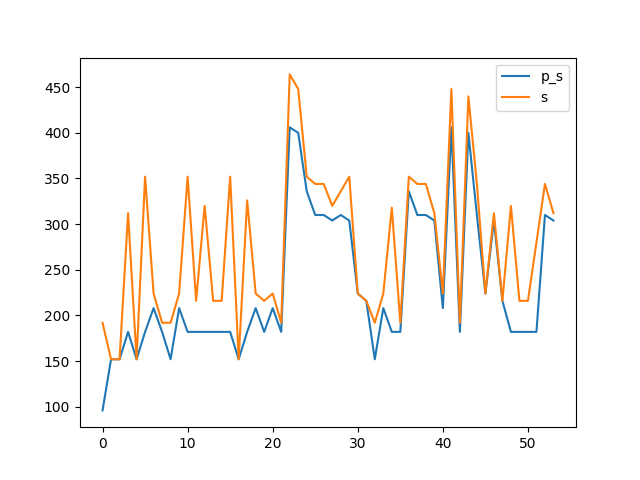
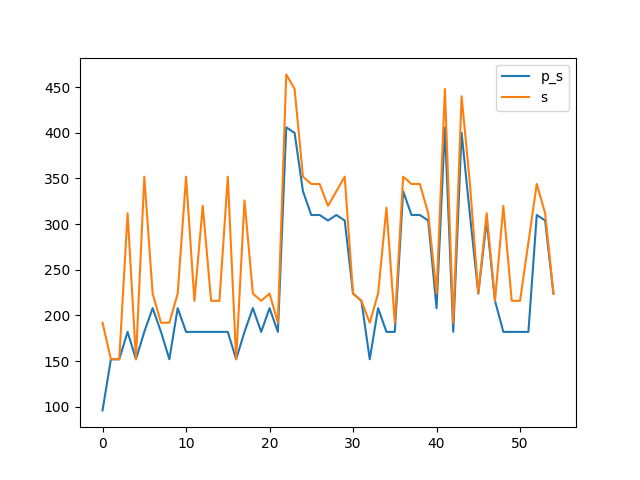
0x0036

diff --git a/benchmark.md b/benchmark.md
@@ -106,16 +106,18 @@ Synthesising 0x0034 pexact:310 r=5 exact:344 r=4
 
 Synthesising 0x0035 pexact:304 r=5 exact:312 r=4
 
+Synthesising 0x0036 pexact:224 r=3 exact:224 r=3
+
 ```mermaid
 xychart-beta
     title "Comparison powertwoexact twoexact"
-    x-axis [0, 1, 2, 3, 4, 5, 6, 7, 8, 9, 10, 11, 12, 13, 14, 15, 16, 17, 18, 19, 20, 21, 22, 23, 24, 25, 26, 27, 28, 29, 30, 31, 32, 33, 34, 35, 36, 37, 38, 39, 40, 41, 42, 43, 44, 45, 46, 47, 48, 49, 50, 51, 52, 53]
+    x-axis [0, 1, 2, 3, 4, 5, 6, 7, 8, 9, 10, 11, 12, 13, 14, 15, 16, 17, 18, 19, 20, 21, 22, 23, 24, 25, 26, 27, 28, 29, 30, 31, 32, 33, 34, 35, 36, 37, 38, 39, 40, 41, 42, 43, 44, 45, 46, 47, 48, 49, 50, 51, 52, 53, 54]
     y-axis "Switching Activity" 0-->464
-    line [96, 152, 152, 182, 152, 182, 208, 182, 152, 208, 182, 182, 182, 182, 182, 182, 152, 182, 208, 182, 208, 182, 406, 400, 336, 310, 310, 304, 310, 304, 224, 216, 152, 208, 182, 182, 336, 310, 310, 304, 208, 406, 182, 400, 310, 224, 304, 216, 182, 182, 182, 182, 310, 304]
-    line [192, 152, 152, 312, 152, 352, 224, 192, 192, 224, 352, 216, 320, 216, 216, 352, 152, 326, 224, 216, 224, 192, 464, 448, 352, 344, 344, 320, 336, 352, 224, 216, 192, 224, 318, 192, 352, 344, 344, 312, 224, 448, 192, 440, 344, 224, 312, 216, 320, 216, 216, 280, 344, 312]
-    line [232.74074074074073, 232.74074074074073, 232.74074074074073, 232.74074074074073, 232.74074074074073, 232.74074074074073, 232.74074074074073, 232.74074074074073, 232.74074074074073, 232.74074074074073, 232.74074074074073, 232.74074074074073, 232.74074074074073, 232.74074074074073, 232.74074074074073, 232.74074074074073, 232.74074074074073, 232.74074074074073, 232.74074074074073, 232.74074074074073, 232.74074074074073, 232.74074074074073, 232.74074074074073, 232.74074074074073, 232.74074074074073, 232.74074074074073, 232.74074074074073, 232.74074074074073, 232.74074074074073, 232.74074074074073, 232.74074074074073, 232.74074074074073, 232.74074074074073, 232.74074074074073, 232.74074074074073, 232.74074074074073, 232.74074074074073, 232.74074074074073, 232.74074074074073, 232.74074074074073, 232.74074074074073, 232.74074074074073, 232.74074074074073, 232.74074074074073, 232.74074074074073, 232.74074074074073, 232.74074074074073, 232.74074074074073, 232.74074074074073, 232.74074074074073, 232.74074074074073, 232.74074074074073, 232.74074074074073, 232.74074074074073]
-    line [276.22222222222223, 276.22222222222223, 276.22222222222223, 276.22222222222223, 276.22222222222223, 276.22222222222223, 276.22222222222223, 276.22222222222223, 276.22222222222223, 276.22222222222223, 276.22222222222223, 276.22222222222223, 276.22222222222223, 276.22222222222223, 276.22222222222223, 276.22222222222223, 276.22222222222223, 276.22222222222223, 276.22222222222223, 276.22222222222223, 276.22222222222223, 276.22222222222223, 276.22222222222223, 276.22222222222223, 276.22222222222223, 276.22222222222223, 276.22222222222223, 276.22222222222223, 276.22222222222223, 276.22222222222223, 276.22222222222223, 276.22222222222223, 276.22222222222223, 276.22222222222223, 276.22222222222223, 276.22222222222223, 276.22222222222223, 276.22222222222223, 276.22222222222223, 276.22222222222223, 276.22222222222223, 276.22222222222223, 276.22222222222223, 276.22222222222223, 276.22222222222223, 276.22222222222223, 276.22222222222223, 276.22222222222223, 276.22222222222223, 276.22222222222223, 276.22222222222223, 276.22222222222223, 276.22222222222223, 276.22222222222223]
-    bar [80, 60, 60, 80, 60, 80, 80, 80, 60, 80, 80, 80, 80, 80, 80, 80, 60, 80, 80, 80, 80, 80, 120, 120, 100, 100, 100, 100, 100, 100, 60, 60, 60, 80, 80, 80, 100, 100, 100, 100, 80, 120, 80, 120, 100, 60, 100, 60, 80, 80, 80, 80, 100, 100]
-    bar [80, 60, 60, 80, 60, 80, 60, 60, 60, 60, 80, 60, 80, 60, 60, 80, 60, 80, 60, 60, 60, 60, 100, 100, 80, 80, 80, 80, 80, 80, 60, 60, 60, 60, 80, 60, 80, 80, 80, 80, 60, 100, 60, 100, 80, 60, 80, 60, 80, 60, 60, 80, 80, 80]
+    line [96, 152, 152, 182, 152, 182, 208, 182, 152, 208, 182, 182, 182, 182, 182, 182, 152, 182, 208, 182, 208, 182, 406, 400, 336, 310, 310, 304, 310, 304, 224, 216, 152, 208, 182, 182, 336, 310, 310, 304, 208, 406, 182, 400, 310, 224, 304, 216, 182, 182, 182, 182, 310, 304, 224]
+    line [192, 152, 152, 312, 152, 352, 224, 192, 192, 224, 352, 216, 320, 216, 216, 352, 152, 326, 224, 216, 224, 192, 464, 448, 352, 344, 344, 320, 336, 352, 224, 216, 192, 224, 318, 192, 352, 344, 344, 312, 224, 448, 192, 440, 344, 224, 312, 216, 320, 216, 216, 280, 344, 312, 224]
+    line [232.5818181818182, 232.5818181818182, 232.5818181818182, 232.5818181818182, 232.5818181818182, 232.5818181818182, 232.5818181818182, 232.5818181818182, 232.5818181818182, 232.5818181818182, 232.5818181818182, 232.5818181818182, 232.5818181818182, 232.5818181818182, 232.5818181818182, 232.5818181818182, 232.5818181818182, 232.5818181818182, 232.5818181818182, 232.5818181818182, 232.5818181818182, 232.5818181818182, 232.5818181818182, 232.5818181818182, 232.5818181818182, 232.5818181818182, 232.5818181818182, 232.5818181818182, 232.5818181818182, 232.5818181818182, 232.5818181818182, 232.5818181818182, 232.5818181818182, 232.5818181818182, 232.5818181818182, 232.5818181818182, 232.5818181818182, 232.5818181818182, 232.5818181818182, 232.5818181818182, 232.5818181818182, 232.5818181818182, 232.5818181818182, 232.5818181818182, 232.5818181818182, 232.5818181818182, 232.5818181818182, 232.5818181818182, 232.5818181818182, 232.5818181818182, 232.5818181818182, 232.5818181818182, 232.5818181818182, 232.5818181818182, 232.5818181818182]
+    line [275.27272727272725, 275.27272727272725, 275.27272727272725, 275.27272727272725, 275.27272727272725, 275.27272727272725, 275.27272727272725, 275.27272727272725, 275.27272727272725, 275.27272727272725, 275.27272727272725, 275.27272727272725, 275.27272727272725, 275.27272727272725, 275.27272727272725, 275.27272727272725, 275.27272727272725, 275.27272727272725, 275.27272727272725, 275.27272727272725, 275.27272727272725, 275.27272727272725, 275.27272727272725, 275.27272727272725, 275.27272727272725, 275.27272727272725, 275.27272727272725, 275.27272727272725, 275.27272727272725, 275.27272727272725, 275.27272727272725, 275.27272727272725, 275.27272727272725, 275.27272727272725, 275.27272727272725, 275.27272727272725, 275.27272727272725, 275.27272727272725, 275.27272727272725, 275.27272727272725, 275.27272727272725, 275.27272727272725, 275.27272727272725, 275.27272727272725, 275.27272727272725, 275.27272727272725, 275.27272727272725, 275.27272727272725, 275.27272727272725, 275.27272727272725, 275.27272727272725, 275.27272727272725, 275.27272727272725, 275.27272727272725, 275.27272727272725]
+    bar [80, 60, 60, 80, 60, 80, 80, 80, 60, 80, 80, 80, 80, 80, 80, 80, 60, 80, 80, 80, 80, 80, 120, 120, 100, 100, 100, 100, 100, 100, 60, 60, 60, 80, 80, 80, 100, 100, 100, 100, 80, 120, 80, 120, 100, 60, 100, 60, 80, 80, 80, 80, 100, 100, 60]
+    bar [80, 60, 60, 80, 60, 80, 60, 60, 60, 60, 80, 60, 80, 60, 60, 80, 60, 80, 60, 60, 60, 60, 100, 100, 80, 80, 80, 80, 80, 80, 60, 60, 60, 60, 80, 60, 80, 80, 80, 80, 60, 100, 60, 100, 80, 60, 80, 60, 80, 60, 60, 80, 80, 80, 60]
 ```
 
